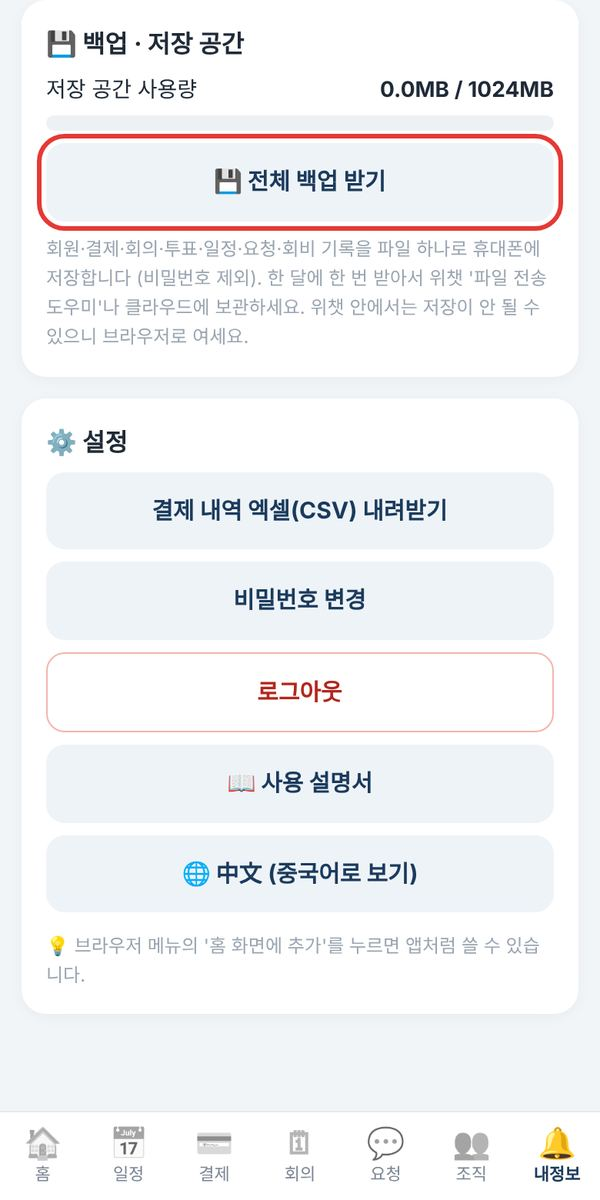
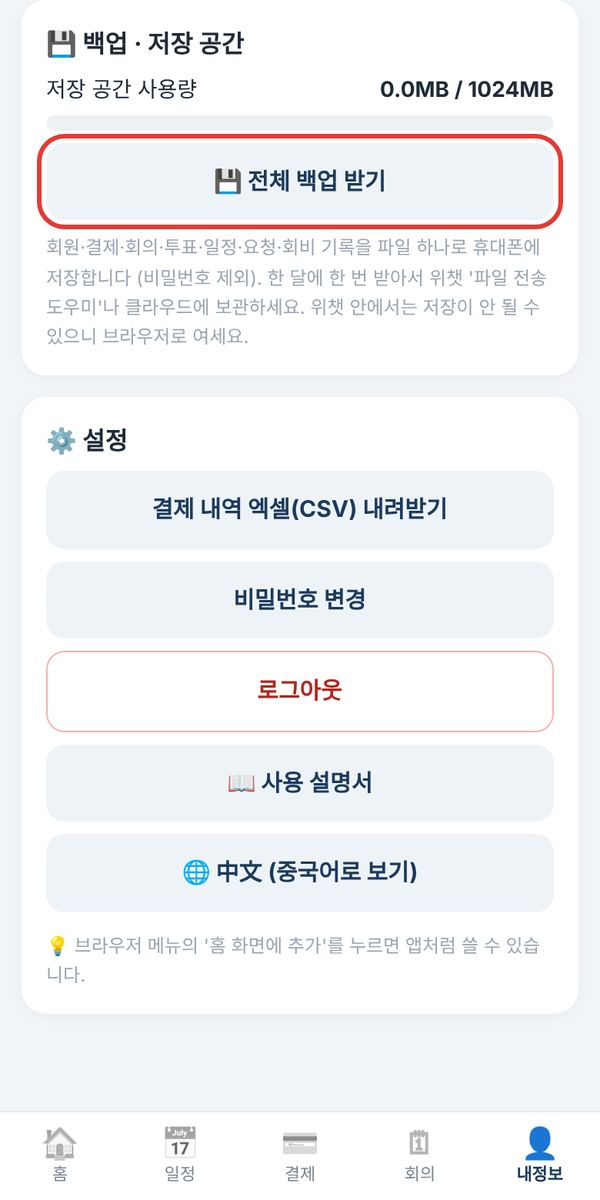
UI 정리(메뉴 5개, 홈 바로가기, 상세 헤더 단순화), 내 회비 12개월 보기
Claude-Session: https://claude.ai/code/session_015HE4XVwfqT5PtJWveADa8Y

diff --git a/index.html b/index.html
@@ -15,7 +15,13 @@
 html,body{margin:0;background:var(--bg);color:var(--ink);font:15px/1.5 -apple-system,"PingFang SC","Malgun Gothic","Apple SD Gothic Neo",sans-serif}
 a{color:inherit;text-decoration:none}
 #app{max-width:560px;margin:0 auto;padding:14px 14px 110px}
-.hero{background:linear-gradient(135deg,var(--navy),var(--green));color:#fff;border-radius:18px;padding:22px 20px;margin-bottom:14px;box-shadow:0 8px 20px rgba(27,58,92,.22)}
+.hero{background:#fff;color:var(--ink);border-radius:16px;padding:18px;margin-bottom:14px;box-shadow:0 2px 10px rgba(0,0,0,.04);border-top:4px solid var(--navy)}
+.hero .ht{color:var(--navy)}.hero .hs,.hero .hl,.hero .hr{color:var(--sub)}
+.hero.main{background:linear-gradient(135deg,var(--navy),var(--green));color:#fff;border-top:0;padding:22px 20px;box-shadow:0 8px 20px rgba(27,58,92,.22)}
+.hero.main .ht,.hero.main .hs,.hero.main .hl,.hero.main .hr{color:#fff}
+.qgrid{display:grid;grid-template-columns:repeat(3,1fr);gap:10px;margin-bottom:14px}
+.q{background:#fff;border-radius:14px;padding:12px 4px 10px;text-align:center;font-size:13px;color:var(--ink);box-shadow:0 2px 10px rgba(0,0,0,.04)}
+.q b{display:block;font-size:24px;line-height:1.25;margin-bottom:2px}
 .hs{font-size:13px;opacity:.85}.hl{font-size:12px;opacity:.8;margin-top:12px}
 .ht{font-size:30px;font-weight:800;margin:4px 0;word-break:keep-all}
 .hr{display:flex;justify-content:space-between;font-size:12px;opacity:.92;margin-top:6px}
@@ -85,15 +91,13 @@ nav a.on{color:var(--navy);font-weight:700}nav a.on b{filter:none;opacity:1}
   <a href="#/matches" data-t="match"><b>📅</b>일정</a>
   <a href="#/pays" data-t="pay"><b>💳</b>결제</a>
   <a href="#/meets" data-t="meet"><b>🗓</b>회의</a>
-  <a href="#/reqs" data-t="req"><b>💬</b>요청</a>
-  <a href="#/org" data-t="org"><b>👥</b>조직</a>
-  <a href="#/me" data-t="me"><b>🔔</b>내정보<span class="badge" id="badge" style="display:none"></span></a>
+  <a href="#/me" data-t="me"><b>👤</b>내정보<span class="badge" id="badge" style="display:none"></span></a>
 </div></nav>
 <div id="toast"></div>
 <button id="lang" data-nt style="position:fixed;top:10px;right:10px;z-index:9;border:0;border-radius:99px;padding:6px 12px;font:600 13px/1.2 inherit;background:rgba(255,255,255,.92);color:#1B3A5C;box-shadow:0 2px 8px rgba(0,0,0,.15)"></button>
 <script>
 // ───── 중국어 번역 (한국어 ↔ 中文) ─────
-const I18N = {"홈": "首页", "경기": "比赛", "결제": "付款", "회의": "会议", "요청": "建议", "조직": "组织", "내정보": "我的", "축구회": "足球会", "회비 · 결제 · 회의 · 회칙": "会费 · 付款 · 会议 · 会规", "로그인": "登录", "로그아웃": "退出登录", "가입 신청": "申请加入", "이름 (실명)": "姓名（实名）", "비밀번호 (4자 이상)": "密码（至少4位）", "비밀번호 확인": "确认密码", "예) 김민수": "例）张伟", "비밀번호를 잊었다면 회장에게 초기화를 요청하세요.": "忘记密码请联系会长重置。", "한 번 로그인하면 로그아웃 전까지 자동으로 로그인됩니다. 다른 기기에서 로그인하면 이전 기기는 로그아웃됩니다.": "登录一次后，在退出前会自动登录。在其他设备登录时，之前的设备会自动退出。", "가입 신청 후 회장이 승인하면 로그인할 수 있습니다. 첫 가입자는 자동으로 회장이 됩니다.": "申请后经会长批准即可登录。第一个注册的人自动成为会长。", "가입 신청 완료! 회장 승인 후 로그인하세요": "申请完成！会长批准后即可登录", "비밀번호가 서로 다릅니다": "两次密码不一致", "📖 사용 설명서": "📖 使用说明（韩文）", "불러오는 중…": "加载中…", "불러오지 못했습니다": "加载失败", "다시 시도": "重试", "인터넷 연결을 확인하세요": "请检查网络连接", "서버가 잠시 응답하지 않습니다. 잠시 후 다시 시도하세요": "服务器暂时无响应，请稍后再试", "요청 오류 (": "请求错误 (", "업로드 중…": "上传中…", "업로드 완료": "上传完成", "업로드 실패 (": "上传失败 (", "파일이 20MB를 넘습니다": "文件超过20MB", "복사했습니다. 위챗 단톡방에 붙여넣으세요": "已复制，请粘贴到微信群", "아래 글을 길게 눌러 복사하세요": "长按下面的文字复制", "닫기": "关闭", "위챗 단톡방 공유 문구 복사": "复制分享文字（微信群）", "처리 기록": "处理记录", "처리 완료": "处理完成", "저장했습니다": "已保存", "삭제": "删除", "열기": "打开", "보기 ›": "查看 ›", "전체 ›": "全部 ›", "전체": "全部", "내용": "内容", "제목": "标题", "상태": "状态", "번호": "编号", "회장": "会长", "부회장": "副会长", "총무": "总务", "감독": "主教练", "코치": "教练", "회원": "会员", "본인": "本人", "👥 운영진": "👥 管理团队", "회장결재": "待会长审批", "부회장결재": "待副会长审批", "부회장검토": "待副会长审核", "지급대기": "待付款", "지급완료": "已付款", "승인대기": "待审批", "승인": "批准", "반려": "驳回", "접수": "已提交", "처리중": "处理中", "완료": "已完成", "참석": "出席", "불참": "缺席", "미정": "待定", "수입": "收入", "지출": "支出", "입금": "入账", "신청": "申请", "대기": "等待", "검토 중": "审核中", "건너뜀": "跳过", "결재": "审批", "구장": "场地", "음료": "饮料", "장비": "装备", "회식": "聚餐", "유니폼": "球衣", "기타": "其他", "회비": "会费", "찬조": "赞助", "11인제": "11人制", "9인제": "9人制", "8인제": "8人制", "7인제": "7人制", "6인제": "6人制", "5인제 (풋살)": "5人制（室内）", "결제안 신청": "提交付款申请", "수입 등록": "登记收入", "안건 상신": "提交议题", "지급": "付款", "마감": "截止", "현재 잔액": "当前余额", "총 수입": "总收入", "총 지출": "总支出", "📢 공지": "📢 公告", "✅ 내가 처리할 일": "✅ 待我处理", "🗓 최근 확정 회의": "🗓 最近确定的会议", "💸 최근 지출": "💸 最近支出", "아직 확정된 회의가 없습니다": "还没有确定的会议", "아직 지출 내역이 없습니다": "还没有支出记录", "⚽ 다음 경기": "⚽ 下一场比赛", "🗳 진행 중인 투표": "🗳 进行中的投票", "투표 완료": "已投票", "투표하기 ›": "去投票 ›", "출석 체크 ›": "签到 ›", "체크 ›": "签到 ›", "+ 결제안": "+ 付款申请", "+ 수입 등록": "+ 登记收入", "내역이 없습니다": "没有记录", "💰 수입 등록": "💰 登记收入", "📝 결제안 신청": "📝 付款申请", "예) 11월 회비": "例）11月会费", "예) 11월 셋째 주 구장 대여": "例）11月第三周场地租赁", "항목": "类别", "금액 (위안)": "金额（元）", "메모": "备注", "사유": "事由", "상세 내용": "详细内容", "입금 캡처": "入账截图", "영수증·견적": "收据·报价", "사진": "照片", "결제안 올리기": "提交付款申请", "결재 순서: 회장 → 부회장 → 총무(지급). 올리면 회장에게 알림이 갑니다.": "审批顺序：会长 → 副会长 → 总务（付款）。提交后会通知会长。", "등록 완료": "登记完成", "작성": "提交", "반려 사유:": "驳回理由：", "🧾 송금 증빙": "🧾 转账凭证", "결재라인": "审批流程", "총무 지급": "总务付款", "회장 결재": "会长审批", "부회장 결재": "副会长审批", "개인 위챗으로 송금한 뒤 송금 캡처를 첨부하고 지급완료를 누르세요.": "用个人微信转账后，上传转账截图并点击“已付款”。", "송금 캡처를 첨부하세요": "请上传转账截图", "지급완료 처리할까요?": "确认已付款吗？", "승인할까요?": "确认批准吗？", "반려 사유를 입력하세요": "请输入驳回理由", "결제안은 운영진만 올릴 수 있습니다": "只有管理团队可以提交付款申请", "+ 회의 안건": "+ 会议议题", "등록된 회의가 없습니다": "没有会议", "🗓 회의 안건 올리기": "🗓 提交会议议题", "회의 제목": "会议标题", "회의 날짜": "会议日期", "예) 12월 정기 운영회의": "例）12月例行管理会议", "안건 내용": "议题内容", "첨부 파일 (사진·PDF·문서)": "附件（照片·PDF·文档）", "+ 파일 첨부": "+ 添加附件", "결재 순서: 부회장 → 회장. 회장이 승인하면 전체 회원에게 공개되고 알림이 갑니다.": "审批顺序：副会长 → 会长。会长批准后向全体会员公开并通知。", "결재 올리기": "提交审批", "결재 요청 완료": "已提交审批", "안건": "议题", "📝 회의록": "📝 会议记录", "📝회의록": "📝会议记录", "‹ 이전": "‹ 上一页", "면제 대상": "免缴对象", "⏸ 일시중단": "⏸ 暂停缴费", "일시중단": "暂停缴费", "⏸ 일시중단 · 🎫 면제 대상": "⏸ 暂停缴费 · 🎫 免缴对象", "회비 면제 대상": "会费免缴对象", "🎫 회비 면제 대상": "🎫 会费免缴对象", "이번 달만 면제": "仅本月免缴", "· 회비 설정": "· 会费设置", "매달 자동으로 면제": "每月自动免缴", "사유 (예: 총무 활동, 감독)": "理由（例：总务工作、主教练）", "면제 대상 저장": "保存免缴设置", "등록된 일시중단이 없습니다": "没有暂停记录", "시작 달": "开始月份", "끝 달": "结束月份", "사유 (예: 부상, 출장, 귀국)": "理由（例：受伤、出差、回国）", "일시중단 추가": "添加暂停", "일시중단을 등록했습니다": "已登记暂停", "이 일시중단을 삭제할까요?": "确定删除该暂停吗？", "(인원에서 제외)": "（不计入人数）", "회장·총무만 일시중단을 설정할 수 있습니다": "只有会长·总务可以设置暂停", "시작·끝 달을 입력하세요": "请输入开始和结束月份", "끝 달이 시작 달보다 빠릅니다": "结束月份早于开始月份", "연납": "年缴", "🏅 연납": "🏅 年缴", "🏅 연회비 완납": "🏅 年费已缴清", "연회비 완납": "年费已缴清", "연납(1년 일시납) 금액 (위안)": "年缴（一次性缴一年）金额（元）", "연납 기한 (선택)": "年缴截止日期（可选）", "설정 저장": "保存设置", "아직 없습니다": "暂无", "연납을 취소할까요?\n연회비 수입 기록이 함께 지워집니다.": "确定取消年缴吗？\n年费收入记录也会一起删除。", "먼저 연납 금액을 정해 주세요": "请先设置年缴金额", "💰 회비 납부 현황": "💰 会费缴纳情况", "이번 달 회비": "本月会费", "납부 완료 ✅": "已缴纳 ✅", "면제": "免缴", "미납 ›": "未缴 ›", "미납": "未缴", "납부": "缴纳", "월 회비": "月会费", "⚙ 회비 설정": "⚙ 会费设置", "월 회비 금액 (위안)": "月会费金额（元）", "저장": "保存", "👥 회원별 납부": "👥 会员缴纳", "이번 달 면제": "本月免缴", "아직 납부 안 함": "尚未缴纳", "회원이 없습니다": "没有会员", "📤 납부 현황 복사 (위챗에 공유)": "📤 复制缴纳情况（分享到微信）", "알림을 보냈습니다": "已发送提醒", "💾 백업 · 저장 공간": "💾 备份 · 存储空间", "저장 공간 사용량": "存储空间使用量", "💾 전체 백업 받기": "💾 下载全部备份", "백업 파일을 저장했습니다": "备份文件已保存", "회비 납부 안내": "会费缴纳提醒", "회장·총무만 납부 체크를 할 수 있습니다": "只有会长·总务可以登记缴纳", "먼저 월 회비 금액을 정해 주세요": "请先设置月会费金额", "회장만 백업할 수 있습니다": "只有会长可以备份", "비밀번호를 5번 틀려 10분간 잠겼습니다": "密码错误5次，已锁定10分钟", "일정": "日程", "📅 캘린더 ›": "📅 日历 ›", "다가오는 경기": "即将进行的比赛", "이 날은 경기가 없습니다": "这天没有比赛", "📤 경기 일정 공유 (위챗)": "📤 分享比赛日程（微信）", "📅 캘린더로 돌아가기": "📅 返回日历", "⚽ 경기 일정:": "⚽ 比赛日程：", "경기 일정 등록": "比赛日程已登记", "초록 점이 있는 날을 누르면 그날 경기를 볼 수 있습니다.": "点击带绿点的日期可查看当天比赛。", "누적 수입": "累计收入", "누적 지출": "累计支出", "이번 달 지출": "本月支出", "📊 월별·연간 결산 ›": "📊 月度·年度结算 ›", "📊 월별·연간 결산 보기": "📊 查看月度·年度结算", "📊 결산": "📊 结算", "연간": "全年", "기간 지출": "期间支出", "기간 수입": "期间收入", "기간 순액": "期间净额", "💰 잔액 흐름": "💰 余额变化", "전기 이월": "上期结转", "기말 잔액": "期末余额", "📂 항목별 지출": "📂 分类支出", "이 기간 지출이 없습니다": "该期间没有支出", "월을 누르면 그 달 내역을 볼 수 있습니다.": "点击月份可查看当月明细。", "이 기간 내역 엑셀(CSV) 내려받기": "下载该期间明细（CSV）", "📤 결산 요약 복사 (위챗에 공유)": "📤 复制结算摘要（分享到微信）", "지급완료된 건만, 지급한 날짜 기준으로 계산합니다. 전기 이월 = 이 기간 이전까지의 잔액.": "只统计已付款的项目，按付款日期计算。上期结转 = 该期间之前的余额。", "년 전체": "年 全年", " 결산": " 结算", "내역 (": "明细 (", "다음 ›": "下一页 ›", "이동 ›": "前往 ›", "작성·수정": "编写·修改", "아직 회의록이 없습니다": "还没有会议记录", "회의 결과를 입력하세요": "请输入会议结果", "저장하고 회원에게 알림": "保存并通知会员", "회의록 저장": "会议记录已保存", "회의 안건은 운영진만 올릴 수 있습니다": "只有管理团队可以提交会议议题", "🗳 투표": "🗳 投票", "아직 투표가 없습니다": "还没有投票", "+ 투표 만들기": "+ 发起投票", "투표 제목": "投票标题", "예) 연말 회식 날짜": "例）年末聚餐日期", "선택지 (한 줄에 하나씩)": "选项（每行一个）", "마감 시간 (선택)": "截止时间（可选）", "투표 시작하고 회원에게 알림": "开始投票并通知会员", "기명 투표입니다. 누가 무엇을 골랐는지 모든 회원에게 보입니다.": "这是记名投票，所有会员都能看到谁选了什么。", "투표를 시작했습니다": "投票已开始", "🗳 기명 투표": "🗳 记名投票", "마감됨": "已截止", "진행 중": "进行中", "결과": "结果", "하나를 골라 누르세요": "请选择一项", "내 선택 (다시 눌러 바꿀 수 있음)": "我的选择（可重新点击更改）", "모두 투표했습니다 🎉": "全部已投票 🎉", "🙋 아직 투표 안 한 사람 (": "🙋 未投票 (", "투표 마감하기": "截止投票", "회의로 돌아가기": "返回会议", "📤 투표 링크 복사 (위챗에 공유)": "📤 复制投票链接（分享到微信）", "투표했습니다": "已投票", "투표를 마감할까요? 마감 후에는 바꿀 수 없습니다.": "确定截止投票吗？截止后不能更改。", "마감했습니다": "已截止", "없는 투표입니다": "投票不存在", "🗳 투표해 주세요:": "🗳 请投票：", "명 참여": "人参与", "예정된 경기가 없습니다": "没有即将进行的比赛", "지난 경기": "往期比赛", "+ 경기 등록": "+ 登记比赛", "⚽ 경기 등록": "⚽ 登记比赛", "✏ 경기 수정": "✏ 修改比赛", "경기 이름": "比赛名称", "예) 정기 경기, 친선전": "例）例行比赛、友谊赛", "상대팀 (선택)": "对手（可选）", "예) ○○FC": "例）○○FC", "날짜·시작 시간": "日期·开始时间", "경기 방식": "比赛形式", "필요 인원 (명)": "所需人数", "구장 이름": "场地名称", "예) ○○체육공원 축구장": "例）○○体育公园足球场", "주소 (선택)": "地址（可选）", "예) ○○구 ○○로 123": "例）○○区○○路123号", "고덕지도 공유 링크 (선택)": "高德地图分享链接（可选）", "고덕지도 앱 → 장소 → 공유 → 링크 복사": "高德地图 → 地点 → 分享 → 复制链接", "링크를 비워 두면 구장 이름·주소로 고덕지도에서 자동 검색됩니다.": "不填链接时，会用场地名称和地址在高德地图自动搜索。", "출석 체크 마감 (선택, 비우면 경기 시작 때 마감)": "签到截止（可选，不填则比赛开始时截止）", "메모 (선택)": "备注（可选）", "예) 흰색·검은색 상의 준비, 8시 30분까지 도착": "例）准备白色·黑色上衣，8点30分前到达", "수정 저장": "保存修改", "등록하고 회원에게 알림": "登记并通知会员", "날짜·시간을 입력하세요": "请输入日期和时间", "수정했습니다": "已修改", "경기를 등록했습니다": "比赛已登记", "운영진만 경기를 등록할 수 있습니다": "只有管理团队可以登记比赛", "📍 구장": "📍 场地", "구장 미정": "场地待定", "🗺 고덕지도에서 위치 보기": "🗺 在高德地图查看位置", "✋ 출석 체크": "✋ 签到", "아직 응답 안 함": "尚未回复", "내 응답:": "我的回复：", "출석 체크가 마감되었습니다": "签到已截止", "출석 마감": "签到已截止", "경기 시작 때 마감": "比赛开始时截止", "✅ 참석": "✅ 出席", "❌ 불참": "❌ 缺席", "🤔 미정": "🤔 待定", "🙋 미응답": "🙋 未回复", "인원 충족 ✅": "人数已满 ✅", "명 부족": "人不足", "✏ 수정": "✏ 修改", "📤 출석 체크 링크 복사 (위챗에 공유)": "📤 复制签到链接（分享到微信）", "(으)로 체크했습니다": " 已签到", "이 경기를 삭제할까요? 출석 기록도 함께 지워집니다.": "确定删除这场比赛吗？签到记录也会一起删除。", "삭제했습니다": "已删除", "없는 경기입니다": "比赛不存在", "⚽ 출석 체크해 주세요:": "⚽ 请签到：", "정기 경기": "例行比赛", "/ 필요": "/ 需要", "· 필요": "· 需要", "현재 참석": "当前出席", "💬 요청사항": "💬 建议·请求", "운영진에게 건의·요청할 내용을 남겨 주세요. 운영진이 답변하면 알림이 갑니다.": "请给管理团队留下建议或请求。管理团队回复后会通知您。", "+ 요청하기": "+ 提交建议", "예) 토요일 경기 시간 변경 요청": "例）申请更改周六比赛时间", "자세한 내용": "详细内容", "보내기": "发送", "요청을 보냈습니다": "已发送", "아직 요청사항이 없습니다": "还没有建议", "답변 (운영진만 보이는 입력칸)": "回复（仅管理团队可见的输入框）", "답변 저장": "保存回复", "답변 ·": "回复 ·", "📜 회칙": "📜 会规", "아직 등록된 회칙이 없습니다": "还没有上传会规", "새 회칙으로 교체": "更换新会规", "회칙 파일 업로드": "上传会规文件", "회칙 등록 완료": "会规已上传", "운영진 정보가 없습니다": "没有管理团队信息", "⚽ 회원": "⚽ 会员", "🔔 알림": "🔔 通知", "알림이 없습니다": "没有通知", "📢 홈 공지": "📢 首页公告", "예) 이번 주 토요일 오전 9시 ○○구장": "例）本周六上午9点 ○○场地", "공지 저장": "保存公告", "🛠 회원 관리": "🛠 会员管理", "가입 승인 대기": "等待批准", "거절": "拒绝", "🤝 회장 인계": "🤝 会长交接", "새 회장을 선택하면 권한이 넘어가고 나는 일반 회원이 됩니다.": "选择新会长后，权限会转交，我将成为普通会员。", "새 회장 선택": "选择新会长", "회장 인계하기": "交接会长", "새 회장을 선택하세요": "请选择新会长", "인계 완료": "交接完成", "사이트 관리 계정도 넘겨주세요 (고장 대비)": "也请交接网站管理账号（以防故障）", "관리 메모 (회장에게만 보이고 인계 시 함께 넘어감)": "管理备注（仅会长可见，交接时一起转交）", "예) GitHub 조직 이름, Supabase 프로젝트 이름, 비상 연락처": "例）GitHub组织名、Supabase项目名、紧急联系方式", "메모 저장": "保存备注", "⚙ 설정": "⚙ 设置", "결제 내역 엑셀(CSV) 내려받기": "下载付款记录（CSV）", "비밀번호 변경": "修改密码", "로그아웃할까요?": "确定退出登录吗？", "💡 브라우저 메뉴의": "💡 在浏览器菜单中点击", "홈 화면에 추가": "添加到主屏幕", "를 누르면 앱처럼 쓸 수 있습니다.": "，就能像App一样使用。", "현재 비밀번호": "当前密码", "새 비밀번호 (4자 이상)": "新密码（至少4位）", "비밀번호 변경 완료": "密码已修改", "변경 완료": "修改完成", "삭제 완료": "删除完成", "위챗 안에서는 저장이 안 될 수 있어요. 브라우저에서 열어 주세요": "在微信内可能无法保存，请用浏览器打开", "님을 삭제할까요?": " 确定删除吗？", "님에게 회장을 인계할까요?\n나는 일반 회원이 됩니다.": " — 确定交接会长吗？\n我将成为普通会员。", "님\n1: 직책 이름 변경 (예: 감독, 경기이사)\n2: 비밀번호 초기화\n3: 회원 삭제\n번호를 입력하세요": "\n1：修改职务名称\n2：重置密码\n3：删除会员\n请输入编号", "직책 이름 (비우면 삭제)": "职务名称（留空则删除）", "새 임시 비밀번호 (4자 이상)": "新临时密码（至少4位）", "님의 비밀번호가": " 的密码已改为", "(으)로 바뀌었습니다. 본인에게 알려 주세요.": "，请告知本人。", "가입 승인": "批准加入", "님이 가입을 신청했습니다": " 申请加入", "결제안 승인 요청": "付款申请待审批", "결제안 최종 승인": "付款申请已最终批准", "결제안 반려": "付款申请被驳回", "송금 요청": "请转账", "지급 완료": "已付款", "회의 안건 결재 요청": "会议议题待审批", "회의 안건 확정": "会议议题已确定", "회의 안건 반려": "会议议题被驳回", "회의록 등록": "会议记录已发布", "회칙 갱신": "会规已更新", "역할 변경": "角色变更", "(으)로 지정되었습니다": " 已被指定", "축구회 가입이 승인되었습니다": "已批准加入足球会", "회원 요청사항": "会员建议", "요청사항 답변 (": "建议已回复 (", "투표 시작": "投票开始", "투표 마감": "投票截止", "경기 일정 등록 · 출석 체크": "比赛已登记 · 请签到", "경기 정보 변경": "比赛信息变更", "새 기기에서 로그인됨": "在新设备登录", "이전 기기는 자동 로그아웃되었습니다. 본인이 아니라면 바로 비밀번호를 바꾸세요": "之前的设备已自动退出。如果不是本人操作，请立即修改密码", "다른 기기에서 로그인했거나 로그인이 해제되었습니다. 다시 로그인해 주세요": "已在其他设备登录或登录已失效，请重新登录", "이름 또는 비밀번호가 틀립니다": "姓名或密码错误", "회장 승인 대기 중입니다": "等待会长批准", "이름과 비밀번호(4자 이상)를 입력하세요": "请输入姓名和密码（至少4位）", "이미 등록된 이름입니다": "该姓名已注册", "제목과 금액을 입력하세요": "请输入标题和金额", "제목을 입력하세요": "请输入标题", "없는 항목입니다": "项目不存在", "수입은 회장·총무만 등록할 수 있습니다": "只有会长·总务可以登记收入", "지금은 결재할 수 있는 단계가 아닙니다": "当前不是您的审批步骤", "총무만 승인된 건을 지급완료할 수 있습니다": "只有总务可以将已批准的申请标为已付款", "아직 확정되지 않은 회의입니다": "会议尚未确定", "부회장 결재 단계입니다": "现在是副会长审批步骤", "회장 결재 단계입니다": "现在是会长审批步骤", "결재할 수 없는 상태입니다": "当前状态无法审批", "운영진만 회의록을 등록할 수 있습니다": "只有管理团队可以发布会议记录", "확정된 회의에만 회의록을 등록할 수 있습니다": "只能为已确定的会议发布记录", "회장·총무만 회칙을 등록할 수 있습니다": "只有会长·总务可以上传会规", "회장·총무만 공지를 수정할 수 있습니다": "只有会长·总务可以修改公告", "회장만 수정할 수 있습니다": "只有会长可以修改", "회장만 회원을 관리할 수 있습니다": "只有会长可以管理会员", "본인 역할은 회장 인계로만 바꿀 수 있습니다": "本人角色只能通过会长交接更改", "잘못된 역할": "角色错误", "비밀번호는 4자 이상": "密码至少4位", "회장만 삭제할 수 있습니다": "只有会长可以删除", "본인은 삭제할 수 없습니다": "不能删除本人", "현재 비밀번호가 틀립니다": "当前密码错误", "새 비밀번호는 4자 이상": "新密码至少4位", "알 수 없는 요청": "未知请求", "알 수 없는 처리": "未知操作", "운영진만 투표를 만들 수 있습니다": "只有管理团队可以发起投票", "확정된 회의에서만 투표를 만들 수 있습니다": "只能在已确定的会议中发起投票", "투표 제목과 선택지(2개 이상)를 입력하세요": "请输入投票标题和选项（至少2个）", "마감된 투표입니다": "投票已截止", "잘못된 선택": "选择错误", "운영진만 마감할 수 있습니다": "只有管理团队可以截止", "경기 이름과 날짜·시간을 입력하세요": "请输入比赛名称和日期时间", "운영진만 삭제할 수 있습니다": "只有管理团队可以删除", "운영진만 답변할 수 있습니다": "只有管理团队可以回复"};
+const I18N = {"홈": "首页", "경기": "比赛", "결제": "付款", "회의": "会议", "요청": "建议", "조직": "组织", "내정보": "我的", "축구회": "足球会", "회비 · 결제 · 회의 · 회칙": "会费 · 付款 · 会议 · 会规", "로그인": "登录", "로그아웃": "退出登录", "가입 신청": "申请加入", "이름 (실명)": "姓名（实名）", "비밀번호 (4자 이상)": "密码（至少4位）", "비밀번호 확인": "确认密码", "예) 김민수": "例）张伟", "비밀번호를 잊었다면 회장에게 초기화를 요청하세요.": "忘记密码请联系会长重置。", "한 번 로그인하면 로그아웃 전까지 자동으로 로그인됩니다. 다른 기기에서 로그인하면 이전 기기는 로그아웃됩니다.": "登录一次后，在退出前会自动登录。在其他设备登录时，之前的设备会自动退出。", "가입 신청 후 회장이 승인하면 로그인할 수 있습니다. 첫 가입자는 자동으로 회장이 됩니다.": "申请后经会长批准即可登录。第一个注册的人自动成为会长。", "가입 신청 완료! 회장 승인 후 로그인하세요": "申请完成！会长批准后即可登录", "비밀번호가 서로 다릅니다": "两次密码不一致", "📖 사용 설명서": "📖 使用说明（韩文）", "불러오는 중…": "加载中…", "불러오지 못했습니다": "加载失败", "다시 시도": "重试", "인터넷 연결을 확인하세요": "请检查网络连接", "서버가 잠시 응답하지 않습니다. 잠시 후 다시 시도하세요": "服务器暂时无响应，请稍后再试", "요청 오류 (": "请求错误 (", "업로드 중…": "上传中…", "업로드 완료": "上传完成", "업로드 실패 (": "上传失败 (", "파일이 20MB를 넘습니다": "文件超过20MB", "복사했습니다. 위챗 단톡방에 붙여넣으세요": "已复制，请粘贴到微信群", "아래 글을 길게 눌러 복사하세요": "长按下面的文字复制", "닫기": "关闭", "위챗 단톡방 공유 문구 복사": "复制分享文字（微信群）", "처리 기록": "处理记录", "처리 완료": "处理完成", "저장했습니다": "已保存", "삭제": "删除", "열기": "打开", "보기 ›": "查看 ›", "전체 ›": "全部 ›", "전체": "全部", "내용": "内容", "제목": "标题", "상태": "状态", "번호": "编号", "회장": "会长", "부회장": "副会长", "총무": "总务", "감독": "主教练", "코치": "教练", "회원": "会员", "본인": "本人", "👥 운영진": "👥 管理团队", "회장결재": "待会长审批", "부회장결재": "待副会长审批", "부회장검토": "待副会长审核", "지급대기": "待付款", "지급완료": "已付款", "승인대기": "待审批", "승인": "批准", "반려": "驳回", "접수": "已提交", "처리중": "处理中", "완료": "已完成", "참석": "出席", "불참": "缺席", "미정": "待定", "수입": "收入", "지출": "支出", "입금": "入账", "신청": "申请", "대기": "等待", "검토 중": "审核中", "건너뜀": "跳过", "결재": "审批", "구장": "场地", "음료": "饮料", "장비": "装备", "회식": "聚餐", "유니폼": "球衣", "기타": "其他", "회비": "会费", "찬조": "赞助", "11인제": "11人制", "9인제": "9人制", "8인제": "8人制", "7인제": "7人制", "6인제": "6人制", "5인제 (풋살)": "5人制（室内）", "결제안 신청": "提交付款申请", "수입 등록": "登记收入", "안건 상신": "提交议题", "지급": "付款", "마감": "截止", "현재 잔액": "当前余额", "총 수입": "总收入", "총 지출": "总支出", "📢 공지": "📢 公告", "✅ 내가 처리할 일": "✅ 待我处理", "🗓 최근 확정 회의": "🗓 最近确定的会议", "💸 최근 지출": "💸 最近支出", "아직 확정된 회의가 없습니다": "还没有确定的会议", "아직 지출 내역이 없습니다": "还没有支出记录", "⚽ 다음 경기": "⚽ 下一场比赛", "🗳 진행 중인 투표": "🗳 进行中的投票", "투표 완료": "已投票", "투표하기 ›": "去投票 ›", "출석 체크 ›": "签到 ›", "체크 ›": "签到 ›", "+ 결제안": "+ 付款申请", "+ 수입 등록": "+ 登记收入", "내역이 없습니다": "没有记录", "💰 수입 등록": "💰 登记收入", "📝 결제안 신청": "📝 付款申请", "예) 11월 회비": "例）11月会费", "예) 11월 셋째 주 구장 대여": "例）11月第三周场地租赁", "항목": "类别", "금액 (위안)": "金额（元）", "메모": "备注", "사유": "事由", "상세 내용": "详细内容", "입금 캡처": "入账截图", "영수증·견적": "收据·报价", "사진": "照片", "결제안 올리기": "提交付款申请", "결재 순서: 회장 → 부회장 → 총무(지급). 올리면 회장에게 알림이 갑니다.": "审批顺序：会长 → 副会长 → 总务（付款）。提交后会通知会长。", "등록 완료": "登记完成", "작성": "提交", "반려 사유:": "驳回理由：", "🧾 송금 증빙": "🧾 转账凭证", "결재라인": "审批流程", "총무 지급": "总务付款", "회장 결재": "会长审批", "부회장 결재": "副会长审批", "개인 위챗으로 송금한 뒤 송금 캡처를 첨부하고 지급완료를 누르세요.": "用个人微信转账后，上传转账截图并点击“已付款”。", "송금 캡처를 첨부하세요": "请上传转账截图", "지급완료 처리할까요?": "确认已付款吗？", "승인할까요?": "确认批准吗？", "반려 사유를 입력하세요": "请输入驳回理由", "결제안은 운영진만 올릴 수 있습니다": "只有管理团队可以提交付款申请", "+ 회의 안건": "+ 会议议题", "등록된 회의가 없습니다": "没有会议", "🗓 회의 안건 올리기": "🗓 提交会议议题", "회의 제목": "会议标题", "회의 날짜": "会议日期", "예) 12월 정기 운영회의": "例）12月例行管理会议", "안건 내용": "议题内容", "첨부 파일 (사진·PDF·문서)": "附件（照片·PDF·文档）", "+ 파일 첨부": "+ 添加附件", "결재 순서: 부회장 → 회장. 회장이 승인하면 전체 회원에게 공개되고 알림이 갑니다.": "审批顺序：副会长 → 会长。会长批准后向全体会员公开并通知。", "결재 올리기": "提交审批", "결재 요청 완료": "已提交审批", "안건": "议题", "📝 회의록": "📝 会议记录", "📝회의록": "📝会议记录", "‹ 이전": "‹ 上一页", "요청사항": "建议·请求", "조직·회칙": "组织·会规", "알림": "通知", "설명서": "说明", "회비": "会费", "결산": "结算", "이번 달 내 회비": "本月我的会费", "올해 낸 회비": "今年已缴会费", "미납 없음 ✅": "没有未缴 ✅", "개월": "个月", "· 전체 회원": "· 全体会员", "회비 납부 현황 전체 보기 ›": "查看全部缴纳情况 ›", "면제 대상": "免缴对象", "⏸ 일시중단": "⏸ 暂停缴费", "일시중단": "暂停缴费", "⏸ 일시중단 · 🎫 면제 대상": "⏸ 暂停缴费 · 🎫 免缴对象", "회비 면제 대상": "会费免缴对象", "🎫 회비 면제 대상": "🎫 会费免缴对象", "이번 달만 면제": "仅本月免缴", "· 회비 설정": "· 会费设置", "매달 자동으로 면제": "每月自动免缴", "사유 (예: 총무 활동, 감독)": "理由（例：总务工作、主教练）", "면제 대상 저장": "保存免缴设置", "등록된 일시중단이 없습니다": "没有暂停记录", "시작 달": "开始月份", "끝 달": "结束月份", "사유 (예: 부상, 출장, 귀국)": "理由（例：受伤、出差、回国）", "일시중단 추가": "添加暂停", "일시중단을 등록했습니다": "已登记暂停", "이 일시중단을 삭제할까요?": "确定删除该暂停吗？", "(인원에서 제외)": "（不计入人数）", "회장·총무만 일시중단을 설정할 수 있습니다": "只有会长·总务可以设置暂停", "시작·끝 달을 입력하세요": "请输入开始和结束月份", "끝 달이 시작 달보다 빠릅니다": "结束月份早于开始月份", "연납": "年缴", "🏅 연납": "🏅 年缴", "🏅 연회비 완납": "🏅 年费已缴清", "연회비 완납": "年费已缴清", "연납(1년 일시납) 금액 (위안)": "年缴（一次性缴一年）金额（元）", "연납 기한 (선택)": "年缴截止日期（可选）", "설정 저장": "保存设置", "아직 없습니다": "暂无", "연납을 취소할까요?\n연회비 수입 기록이 함께 지워집니다.": "确定取消年缴吗？\n年费收入记录也会一起删除。", "먼저 연납 금액을 정해 주세요": "请先设置年缴金额", "💰 회비 납부 현황": "💰 会费缴纳情况", "이번 달 회비": "本月会费", "납부 완료 ✅": "已缴纳 ✅", "면제": "免缴", "미납 ›": "未缴 ›", "미납": "未缴", "납부": "缴纳", "월 회비": "月会费", "⚙ 회비 설정": "⚙ 会费设置", "월 회비 금액 (위안)": "月会费金额（元）", "저장": "保存", "👥 회원별 납부": "👥 会员缴纳", "이번 달 면제": "本月免缴", "아직 납부 안 함": "尚未缴纳", "회원이 없습니다": "没有会员", "📤 납부 현황 복사 (위챗에 공유)": "📤 复制缴纳情况（分享到微信）", "알림을 보냈습니다": "已发送提醒", "💾 백업 · 저장 공간": "💾 备份 · 存储空间", "저장 공간 사용량": "存储空间使用量", "💾 전체 백업 받기": "💾 下载全部备份", "백업 파일을 저장했습니다": "备份文件已保存", "회비 납부 안내": "会费缴纳提醒", "회장·총무만 납부 체크를 할 수 있습니다": "只有会长·总务可以登记缴纳", "먼저 월 회비 금액을 정해 주세요": "请先设置月会费金额", "회장만 백업할 수 있습니다": "只有会长可以备份", "비밀번호를 5번 틀려 10분간 잠겼습니다": "密码错误5次，已锁定10分钟", "일정": "日程", "📅 캘린더 ›": "📅 日历 ›", "다가오는 경기": "即将进行的比赛", "이 날은 경기가 없습니다": "这天没有比赛", "📤 경기 일정 공유 (위챗)": "📤 分享比赛日程（微信）", "📅 캘린더로 돌아가기": "📅 返回日历", "⚽ 경기 일정:": "⚽ 比赛日程：", "경기 일정 등록": "比赛日程已登记", "초록 점이 있는 날을 누르면 그날 경기를 볼 수 있습니다.": "点击带绿点的日期可查看当天比赛。", "누적 수입": "累计收入", "누적 지출": "累计支出", "이번 달 지출": "本月支出", "📊 월별·연간 결산 ›": "📊 月度·年度结算 ›", "📊 월별·연간 결산 보기": "📊 查看月度·年度结算", "📊 결산": "📊 结算", "연간": "全年", "기간 지출": "期间支出", "기간 수입": "期间收入", "기간 순액": "期间净额", "💰 잔액 흐름": "💰 余额变化", "전기 이월": "上期结转", "기말 잔액": "期末余额", "📂 항목별 지출": "📂 分类支出", "이 기간 지출이 없습니다": "该期间没有支出", "월을 누르면 그 달 내역을 볼 수 있습니다.": "点击月份可查看当月明细。", "이 기간 내역 엑셀(CSV) 내려받기": "下载该期间明细（CSV）", "📤 결산 요약 복사 (위챗에 공유)": "📤 复制结算摘要（分享到微信）", "지급완료된 건만, 지급한 날짜 기준으로 계산합니다. 전기 이월 = 이 기간 이전까지의 잔액.": "只统计已付款的项目，按付款日期计算。上期结转 = 该期间之前的余额。", "년 전체": "年 全年", " 결산": " 结算", "내역 (": "明细 (", "다음 ›": "下一页 ›", "이동 ›": "前往 ›", "작성·수정": "编写·修改", "아직 회의록이 없습니다": "还没有会议记录", "회의 결과를 입력하세요": "请输入会议结果", "저장하고 회원에게 알림": "保存并通知会员", "회의록 저장": "会议记录已保存", "회의 안건은 운영진만 올릴 수 있습니다": "只有管理团队可以提交会议议题", "🗳 투표": "🗳 投票", "아직 투표가 없습니다": "还没有投票", "+ 투표 만들기": "+ 发起投票", "투표 제목": "投票标题", "예) 연말 회식 날짜": "例）年末聚餐日期", "선택지 (한 줄에 하나씩)": "选项（每行一个）", "마감 시간 (선택)": "截止时间（可选）", "투표 시작하고 회원에게 알림": "开始投票并通知会员", "기명 투표입니다. 누가 무엇을 골랐는지 모든 회원에게 보입니다.": "这是记名投票，所有会员都能看到谁选了什么。", "투표를 시작했습니다": "投票已开始", "🗳 기명 투표": "🗳 记名投票", "마감됨": "已截止", "진행 중": "进行中", "결과": "结果", "하나를 골라 누르세요": "请选择一项", "내 선택 (다시 눌러 바꿀 수 있음)": "我的选择（可重新点击更改）", "모두 투표했습니다 🎉": "全部已投票 🎉", "🙋 아직 투표 안 한 사람 (": "🙋 未投票 (", "투표 마감하기": "截止投票", "회의로 돌아가기": "返回会议", "📤 투표 링크 복사 (위챗에 공유)": "📤 复制投票链接（分享到微信）", "투표했습니다": "已投票", "투표를 마감할까요? 마감 후에는 바꿀 수 없습니다.": "确定截止投票吗？截止后不能更改。", "마감했습니다": "已截止", "없는 투표입니다": "投票不存在", "🗳 투표해 주세요:": "🗳 请投票：", "명 참여": "人参与", "예정된 경기가 없습니다": "没有即将进行的比赛", "지난 경기": "往期比赛", "+ 경기 등록": "+ 登记比赛", "⚽ 경기 등록": "⚽ 登记比赛", "✏ 경기 수정": "✏ 修改比赛", "경기 이름": "比赛名称", "예) 정기 경기, 친선전": "例）例行比赛、友谊赛", "상대팀 (선택)": "对手（可选）", "예) ○○FC": "例）○○FC", "날짜·시작 시간": "日期·开始时间", "경기 방식": "比赛形式", "필요 인원 (명)": "所需人数", "구장 이름": "场地名称", "예) ○○체육공원 축구장": "例）○○体育公园足球场", "주소 (선택)": "地址（可选）", "예) ○○구 ○○로 123": "例）○○区○○路123号", "고덕지도 공유 링크 (선택)": "高德地图分享链接（可选）", "고덕지도 앱 → 장소 → 공유 → 링크 복사": "高德地图 → 地点 → 分享 → 复制链接", "링크를 비워 두면 구장 이름·주소로 고덕지도에서 자동 검색됩니다.": "不填链接时，会用场地名称和地址在高德地图自动搜索。", "출석 체크 마감 (선택, 비우면 경기 시작 때 마감)": "签到截止（可选，不填则比赛开始时截止）", "메모 (선택)": "备注（可选）", "예) 흰색·검은색 상의 준비, 8시 30분까지 도착": "例）准备白色·黑色上衣，8点30分前到达", "수정 저장": "保存修改", "등록하고 회원에게 알림": "登记并通知会员", "날짜·시간을 입력하세요": "请输入日期和时间", "수정했습니다": "已修改", "경기를 등록했습니다": "比赛已登记", "운영진만 경기를 등록할 수 있습니다": "只有管理团队可以登记比赛", "📍 구장": "📍 场地", "구장 미정": "场地待定", "🗺 고덕지도에서 위치 보기": "🗺 在高德地图查看位置", "✋ 출석 체크": "✋ 签到", "아직 응답 안 함": "尚未回复", "내 응답:": "我的回复：", "출석 체크가 마감되었습니다": "签到已截止", "출석 마감": "签到已截止", "경기 시작 때 마감": "比赛开始时截止", "✅ 참석": "✅ 出席", "❌ 불참": "❌ 缺席", "🤔 미정": "🤔 待定", "🙋 미응답": "🙋 未回复", "인원 충족 ✅": "人数已满 ✅", "명 부족": "人不足", "✏ 수정": "✏ 修改", "📤 출석 체크 링크 복사 (위챗에 공유)": "📤 复制签到链接（分享到微信）", "(으)로 체크했습니다": " 已签到", "이 경기를 삭제할까요? 출석 기록도 함께 지워집니다.": "确定删除这场比赛吗？签到记录也会一起删除。", "삭제했습니다": "已删除", "없는 경기입니다": "比赛不存在", "⚽ 출석 체크해 주세요:": "⚽ 请签到：", "정기 경기": "例行比赛", "/ 필요": "/ 需要", "· 필요": "· 需要", "현재 참석": "当前出席", "💬 요청사항": "💬 建议·请求", "운영진에게 건의·요청할 내용을 남겨 주세요. 운영진이 답변하면 알림이 갑니다.": "请给管理团队留下建议或请求。管理团队回复后会通知您。", "+ 요청하기": "+ 提交建议", "예) 토요일 경기 시간 변경 요청": "例）申请更改周六比赛时间", "자세한 내용": "详细内容", "보내기": "发送", "요청을 보냈습니다": "已发送", "아직 요청사항이 없습니다": "还没有建议", "답변 (운영진만 보이는 입력칸)": "回复（仅管理团队可见的输入框）", "답변 저장": "保存回复", "답변 ·": "回复 ·", "📜 회칙": "📜 会规", "아직 등록된 회칙이 없습니다": "还没有上传会规", "새 회칙으로 교체": "更换新会规", "회칙 파일 업로드": "上传会规文件", "회칙 등록 완료": "会规已上传", "운영진 정보가 없습니다": "没有管理团队信息", "⚽ 회원": "⚽ 会员", "🔔 알림": "🔔 通知", "알림이 없습니다": "没有通知", "📢 홈 공지": "📢 首页公告", "예) 이번 주 토요일 오전 9시 ○○구장": "例）本周六上午9点 ○○场地", "공지 저장": "保存公告", "🛠 회원 관리": "🛠 会员管理", "가입 승인 대기": "等待批准", "거절": "拒绝", "🤝 회장 인계": "🤝 会长交接", "새 회장을 선택하면 권한이 넘어가고 나는 일반 회원이 됩니다.": "选择新会长后，权限会转交，我将成为普通会员。", "새 회장 선택": "选择新会长", "회장 인계하기": "交接会长", "새 회장을 선택하세요": "请选择新会长", "인계 완료": "交接完成", "사이트 관리 계정도 넘겨주세요 (고장 대비)": "也请交接网站管理账号（以防故障）", "관리 메모 (회장에게만 보이고 인계 시 함께 넘어감)": "管理备注（仅会长可见，交接时一起转交）", "예) GitHub 조직 이름, Supabase 프로젝트 이름, 비상 연락처": "例）GitHub组织名、Supabase项目名、紧急联系方式", "메모 저장": "保存备注", "⚙ 설정": "⚙ 设置", "결제 내역 엑셀(CSV) 내려받기": "下载付款记录（CSV）", "비밀번호 변경": "修改密码", "로그아웃할까요?": "确定退出登录吗？", "💡 브라우저 메뉴의": "💡 在浏览器菜单中点击", "홈 화면에 추가": "添加到主屏幕", "를 누르면 앱처럼 쓸 수 있습니다.": "，就能像App一样使用。", "현재 비밀번호": "当前密码", "새 비밀번호 (4자 이상)": "新密码（至少4位）", "비밀번호 변경 완료": "密码已修改", "변경 완료": "修改完成", "삭제 완료": "删除完成", "위챗 안에서는 저장이 안 될 수 있어요. 브라우저에서 열어 주세요": "在微信内可能无法保存，请用浏览器打开", "님을 삭제할까요?": " 确定删除吗？", "님에게 회장을 인계할까요?\n나는 일반 회원이 됩니다.": " — 确定交接会长吗？\n我将成为普通会员。", "님\n1: 직책 이름 변경 (예: 감독, 경기이사)\n2: 비밀번호 초기화\n3: 회원 삭제\n번호를 입력하세요": "\n1：修改职务名称\n2：重置密码\n3：删除会员\n请输入编号", "직책 이름 (비우면 삭제)": "职务名称（留空则删除）", "새 임시 비밀번호 (4자 이상)": "新临时密码（至少4位）", "님의 비밀번호가": " 的密码已改为", "(으)로 바뀌었습니다. 본인에게 알려 주세요.": "，请告知本人。", "가입 승인": "批准加入", "님이 가입을 신청했습니다": " 申请加入", "결제안 승인 요청": "付款申请待审批", "결제안 최종 승인": "付款申请已最终批准", "결제안 반려": "付款申请被驳回", "송금 요청": "请转账", "지급 완료": "已付款", "회의 안건 결재 요청": "会议议题待审批", "회의 안건 확정": "会议议题已确定", "회의 안건 반려": "会议议题被驳回", "회의록 등록": "会议记录已发布", "회칙 갱신": "会规已更新", "역할 변경": "角色变更", "(으)로 지정되었습니다": " 已被指定", "축구회 가입이 승인되었습니다": "已批准加入足球会", "회원 요청사항": "会员建议", "요청사항 답변 (": "建议已回复 (", "투표 시작": "投票开始", "투표 마감": "投票截止", "경기 일정 등록 · 출석 체크": "比赛已登记 · 请签到", "경기 정보 변경": "比赛信息变更", "새 기기에서 로그인됨": "在新设备登录", "이전 기기는 자동 로그아웃되었습니다. 본인이 아니라면 바로 비밀번호를 바꾸세요": "之前的设备已自动退出。如果不是本人操作，请立即修改密码", "다른 기기에서 로그인했거나 로그인이 해제되었습니다. 다시 로그인해 주세요": "已在其他设备登录或登录已失效，请重新登录", "이름 또는 비밀번호가 틀립니다": "姓名或密码错误", "회장 승인 대기 중입니다": "等待会长批准", "이름과 비밀번호(4자 이상)를 입력하세요": "请输入姓名和密码（至少4位）", "이미 등록된 이름입니다": "该姓名已注册", "제목과 금액을 입력하세요": "请输入标题和金额", "제목을 입력하세요": "请输入标题", "없는 항목입니다": "项目不存在", "수입은 회장·총무만 등록할 수 있습니다": "只有会长·总务可以登记收入", "지금은 결재할 수 있는 단계가 아닙니다": "当前不是您的审批步骤", "총무만 승인된 건을 지급완료할 수 있습니다": "只有总务可以将已批准的申请标为已付款", "아직 확정되지 않은 회의입니다": "会议尚未确定", "부회장 결재 단계입니다": "现在是副会长审批步骤", "회장 결재 단계입니다": "现在是会长审批步骤", "결재할 수 없는 상태입니다": "当前状态无法审批", "운영진만 회의록을 등록할 수 있습니다": "只有管理团队可以发布会议记录", "확정된 회의에만 회의록을 등록할 수 있습니다": "只能为已确定的会议发布记录", "회장·총무만 회칙을 등록할 수 있습니다": "只有会长·总务可以上传会规", "회장·총무만 공지를 수정할 수 있습니다": "只有会长·总务可以修改公告", "회장만 수정할 수 있습니다": "只有会长可以修改", "회장만 회원을 관리할 수 있습니다": "只有会长可以管理会员", "본인 역할은 회장 인계로만 바꿀 수 있습니다": "本人角色只能通过会长交接更改", "잘못된 역할": "角色错误", "비밀번호는 4자 이상": "密码至少4位", "회장만 삭제할 수 있습니다": "只有会长可以删除", "본인은 삭제할 수 없습니다": "不能删除本人", "현재 비밀번호가 틀립니다": "当前密码错误", "새 비밀번호는 4자 이상": "新密码至少4位", "알 수 없는 요청": "未知请求", "알 수 없는 처리": "未知操作", "운영진만 투표를 만들 수 있습니다": "只有管理团队可以发起投票", "확정된 회의에서만 투표를 만들 수 있습니다": "只能在已确定的会议中发起投票", "투표 제목과 선택지(2개 이상)를 입력하세요": "请输入投票标题和选项（至少2个）", "마감된 투표입니다": "投票已截止", "잘못된 선택": "选择错误", "운영진만 마감할 수 있습니다": "只有管理团队可以截止", "경기 이름과 날짜·시간을 입력하세요": "请输入比赛名称和日期时间", "운영진만 삭제할 수 있습니다": "只有管理团队可以删除", "운영진만 답변할 수 있습니다": "只有管理团队可以回复"};
 const WDZ = { 일:'日', 월:'一', 화:'二', 수:'三', 목:'四', 금:'五', 토:'六' };
 const LANG = (() => {
   try { const s = localStorage.getItem('wxfc_lang'); if(s) return s } catch(e){}
@@ -253,25 +257,39 @@ function loginView(mode = 'login'){
   };
 }
 
+// ───── 공통: 회비 상태 표시 ─────
+const dueTag = st => st == '연납' ? '<span class="tag t-done">🏅 연회비 완납</span>' : st == '납부' ? '<span class="tag t-done">납부 완료 ✅</span>'
+  : st == '면제' || st == '면제대상' ? '<span class="tag t-ok">면제</span>' : st == '일시중단' ? '<span class="tag t-wait">⏸ 일시중단</span>' : '<span class="tag t-no">미납</span>';
+function myDuesHtml(md, extra = ''){
+  const z = typeof LANG != 'undefined' && LANG == 'zh', now = new Date(), cy = now.getFullYear(), cm = now.getMonth() + 1;
+  const C = { 납부:['#DFF3E3','#2E7D32','✓'], 연납:['#DFF3E3','#2E7D32','🏅'], 면제:['#EEF1F4','#5F6B7A', z ? '免' : '면제'], 면제대상:['#EEF1F4','#5F6B7A', z ? '免' : '면제'],
+    일시중단:['#FFF4CC','#8A6D00','⏸'], 미납:['#FDE2E1','#B3261E', z ? '未缴' : '미납'], 해당없음:['#F5F7FA','#C5CED8','-'] };
+  const fut = m => md.year > cy || (md.year == cy && m > cm);
+  const cells = md.months.map(x => { const c = fut(x.m) && x.status == '미납' ? ['#F5F7FA','#9AA5B1','-'] : (C[x.status] || C['미납']);
+    return `<div style="background:${c[0]};color:${c[1]};border-radius:10px;padding:7px 0;text-align:center"><div style="font-size:11px;opacity:.8">${x.m}${z ? '月' : '월'}</div><div style="font-weight:700;font-size:13px">${c[2]}</div></div>` }).join('');
+  const un = md.months.filter(x => x.status == '미납' && !fut(x.m)).length;
+  return `<div class="card"><div class="ct" data-nt><span>🙋 ${z ? `我的会费 (${md.year}年)` : `내 회비 (${md.year}년)`}</span></div>
+    <div style="display:grid;grid-template-columns:repeat(6,1fr);gap:6px" data-nt>${cells}</div>
+    <div style="display:flex;justify-content:space-between;margin-top:10px;font-size:14px"><span>올해 낸 회비 <b>${yen(md.total)}</b></span><b style="color:${un ? '#B3261E' : '#2E7D32'}">${un ? '미납 ' + un + '개월' : '미납 없음 ✅'}</b></div>${extra}</div>`;
+}
+
 // ───── 홈 ─────
 async function home(){
   const h = await api('home');
-  V(`<div class="hero"><div class="hs">${esc(ME.name)} · ${esc(ME.role)}</div>
+  const Q = [['💰','회비','#/dues'],['📊','결산','#/report'],['💬','요청사항','#/reqs'],['👥','조직·회칙','#/org'],['🔔','알림','#/me'],['📖','설명서','manual.html']];
+  V(`<div class="hero main"><div class="hs">${esc(ME.name)} · ${esc(ME.role)}</div>
       <div class="hl">현재 잔액</div><div class="ht">${yen(h.income - h.spend)}</div>
-      <div class="hr"><span>누적 수입 ${yen(h.income)}</span><span>누적 지출 ${yen(h.spend)}</span></div>
-      <a href="#/report" style="display:flex;justify-content:space-between;margin-top:12px;padding-top:10px;border-top:1px solid rgba(255,255,255,.25);font-size:13px">
-        <span>이번 달 지출 <b>${yen(h.month_spend)}</b></span><span>📊 월별·연간 결산 ›</span></a></div>
-    ${h.dues_amount > 0 ? `<a class="card" href="#/dues" style="display:flex;align-items:center;justify-content:space-between;gap:10px;padding:14px 16px">
-        <span>💰 이번 달 회비 <b>${yen(h.dues_amount)}</b></span>${h.mydue == '연납' ? '<span class="tag t-done">🏅 연회비 완납</span>' : h.mydue == '납부' ? '<span class="tag t-done">납부 완료 ✅</span>' : h.mydue == '면제' || h.mydue == '면제대상' ? '<span class="tag t-ok">면제</span>' : h.mydue == '일시중단' ? '<span class="tag t-wait">⏸ 일시중단</span>' : '<span class="tag t-no">미납 ›</span>'}</a>` : ''}
+      <div class="hr"><span>이번 달 지출 ${yen(h.month_spend)}</span><span>누적 지출 ${yen(h.spend)}</span></div>
+      ${h.dues_amount > 0 ? `<a href="#/dues" style="display:flex;justify-content:space-between;align-items:center;margin-top:12px;padding-top:10px;border-top:1px solid rgba(255,255,255,.25);font-size:13px">
+        <span>이번 달 내 회비 ${yen(h.dues_amount)}</span>${dueTag(h.mydue)}</a>` : ''}</div>
+    <div class="qgrid">${Q.map(([i, t, u]) => `<a class="q" href="${u}"><b>${i}</b>${t}</a>`).join('')}</div>
+    ${h.todo.length ? card('✅ 내가 처리할 일', h.todo.map(t => `<a class="it" href="#/${t.kind}/${t.id}"><div class="grow">${esc(t.title)}</div>${tag(t.status)}</a>`).join('')) : ''}
     ${h.notice ? card('📢 공지', `<div class="txt">${esc(h.notice)}</div>`) : ''}
     ${h.polls.length ? card('🗳 진행 중인 투표', h.polls.map(v => `<a class="it" href="#/vote/${v.id}"><div class="grow">${esc(v.title)}${v.deadline ? `<div class="sub">마감 ${fdt(v.deadline)}</div>` : ''}</div>${v.voted ? '<span class="tag t-done">투표 완료</span>' : '<span class="tag t-wait">투표하기 ›</span>'}</a>`).join('')) : ''}
     ${h.next ? card('⚽ 다음 경기', `<a class="it" href="#/match/${h.next.id}"><div class="grow"><b>${esc(h.next.title)}${h.next.opponent ? ' vs ' + esc(h.next.opponent) : ''}</b>
         <div class="sub">${fdt(h.next.starts_at)} · ${esc(h.next.venue || '구장 미정')} · ${esc(h.next.format)}</div>
         ${ATTEND ? `<div class="sub">참석 <b style="color:${h.next.yes >= h.next.need ? '#2E7D32' : '#B3261E'}">${h.next.yes}</b> / 필요 ${h.next.need}명</div>` : ''}</div>
-        ${!ATTEND ? '<span class="link">보기 ›</span>' : h.next.mine ? tag(h.next.mine) : '<span class="tag t-wait">출석 체크 ›</span>'}</a>`, '<a class="link" href="#/matches">📅 캘린더 ›</a>') : ''}
-    ${h.todo.length ? card('✅ 내가 처리할 일', h.todo.map(t => `<a class="it" href="#/${t.kind}/${t.id}"><div class="grow">${esc(t.title)}</div>${tag(t.status)}</a>`).join('')) : ''}
-    ${card('🗓 최근 확정 회의', h.meets.map(m => `<a class="it" href="#/meet/${m.id}"><div class="grow">${esc(m.title)}<div class="sub">${esc(m.mdate||'')}</div></div><span class="link">보기 ›</span></a>`).join('') || empty('아직 확정된 회의가 없습니다'))}
-    ${card('💸 최근 지출', h.recent.map(p => `<a class="it" href="#/pay/${p.id}"><div class="grow">${esc(p.title)}<div class="sub">${esc(p.category)} · ${esc(p.applicant)}</div></div><span class="amt">${yen(p.amount)}</span></a>`).join('') || empty('아직 지출 내역이 없습니다'), '<a class="link" href="#/pays">전체 ›</a>')}`);
+        ${!ATTEND ? '<span class="link">보기 ›</span>' : h.next.mine ? tag(h.next.mine) : '<span class="tag t-wait">출석 체크 ›</span>'}</a>`, '<a class="link" href="#/matches">📅 캘린더 ›</a>') : ''}`);
 }
 
 // ───── 결제 ─────
@@ -463,11 +481,12 @@ async function duesMore(id){
 function dMove(n){ const [y, m] = DYM.split('-').map(Number), d = new Date(y, m - 1 + n, 1); DYM = `${d.getFullYear()}-${String(d.getMonth() + 1).padStart(2,'0')}`; duesPage() }
 async function duesPage(){
   const r = await api('dues', { ym: DYM || '' }); DYM = r.ym;
+  const md = await api('myDues', { year: r.ym.slice(0,4) });
   const can = ['회장','총무'].includes(ME.role), [y, m] = r.ym.split('-').map(Number);
   const paid = r.list.filter(x => x.status == '납부' || x.status == '연납'), yr = r.list.filter(x => x.status == '연납'), ex = r.list.filter(x => x.status == '면제' || x.status == '면제대상'), ps = r.list.filter(x => x.status == '일시중단'), un = r.list.filter(x => x.status == '미납');
   const total = paid.filter(x => x.status == '납부').reduce((a, x) => a + Number(x.amount || 0), 0), need = r.list.length - ex.length - ps.length, pc = need ? Math.round(paid.length * 100 / need) : 0;
   const label = (typeof LANG != 'undefined' && LANG == 'zh') ? `${y}年 ${m}月` : `${y}년 ${m}월`;
-  V(`<div class="card"><div class="ct"><button class="btn b-ghost sm" onclick="dMove(-1)">‹</button><span data-nt>💰 ${label}</span><button class="btn b-ghost sm" onclick="dMove(1)">›</button></div>
+  V(`${myDuesHtml(md)}<div class="card"><div class="ct"><button class="btn b-ghost sm" onclick="dMove(-1)">‹</button><span data-nt>💰 ${label} · 전체 회원</span><button class="btn b-ghost sm" onclick="dMove(1)">›</button></div>
       <div style="display:flex;justify-content:space-between;font-size:14px"><span>납부 <b>${paid.length}</b> / ${need}명</span><span>미납 <b style="color:#B3261E">${un.length}</b>명</span><span>입금 <b>${yen(total)}</b></span></div>
       <div style="margin-top:8px;background:#EEF1F4;border-radius:99px;height:10px;overflow:hidden"><div style="height:100%;width:${pc}%;background:var(--green)"></div></div>
       ${ex.length || ps.length ? `<div class="sub" style="margin-top:8px">면제 ${ex.length}명 · 일시중단 ${ps.length}명 (인원에서 제외)</div>` : ''}
@@ -707,8 +726,10 @@ async function org(){
 // ───── 내정보 · 알림 · 관리 ─────
 async function mePage(){
   const r = await api('mePage'), boss = ME.role == '회장', can = ['회장','총무'].includes(ME.role);
+  const md = await api('myDues').catch(() => null);
   const others = r.users.filter(u => u.approved && u.id != ME.id);
   V(`<div class="hero"><div class="ht" style="font-size:24px">${esc(ME.name)}</div><div class="hs">${esc(ME.role)}${ME.position ? ' · ' + esc(ME.position) : ''}</div></div>
+    ${md ? myDuesHtml(md, '<a class="link" href="#/dues" style="display:block;margin-top:8px">회비 납부 현황 전체 보기 ›</a>') : ''}
     ${card('🔔 알림', '<div id="nl"></div>', r.notis.length ? `<span class="sub" style="margin:0">${r.notis.length}개</span>` : '')}
     ${can ? card('📢 홈 공지', `<textarea id="nt" placeholder="예) 이번 주 토요일 오전 9시 ○○구장">${esc(r.notice)}</textarea><button class="btn" id="ns">공지 저장</button>`) : ''}
     ${boss ? card('🛠 회원 관리', r.users.map(u => `<div class="it"><div class="grow">${esc(u.name)}<div class="sub">${u.approved ? esc(u.role) + (u.position ? ' · ' + esc(u.position) : '') : '가입 승인 대기'}</div></div>
@@ -782,8 +803,8 @@ const ROUTES = [
   [/^#\/vote\/(\d+)$/, votePage, 'meet'],
   [/^#\/matches$/, matchesPage, 'match'], [/^#\/match\/new$/, () => matchForm(), 'match'],
   [/^#\/match\/edit\/(\d+)$/, matchForm, 'match'], [/^#\/match\/(\d+)$/, matchDetail, 'match'],
-  [/^#\/reqs$/, reqsPage, 'req'], [/^#\/req\/(\d+)$/, reqsPage, 'req'],
-  [/^#\/org$/, org, 'org'], [/^#\/me$/, mePage, 'me']
+  [/^#\/reqs$/, reqsPage, 'home'], [/^#\/req\/(\d+)$/, reqsPage, 'home'],
+  [/^#\/org$/, org, 'home'], [/^#\/me$/, mePage, 'me']
 ];
 async function route(){
   if(!TOKEN) return loginView();

diff --git a/manual.html b/manual.html
@@ -102,9 +102,16 @@ code{background:#EEF3F8;padding:1px 6px;border-radius:6px;font-size:15px}
     <tr><th>📅 일정</th><td>경기 일정 캘린더</td></tr>
     <tr><th>💳 결제</th><td>돈을 쓴 내역 전체</td></tr>
     <tr><th>🗓 회의</th><td>회의 안건·회의록</td></tr>
-    <tr><th>💬 요청</th><td>회원 건의·요청사항</td></tr>
-    <tr><th>👥 조직</th><td>운영진 명단, 회칙 파일</td></tr>
-    <tr><th>🔔 내정보</th><td>알림, 비밀번호 변경, (회장) 회원 관리</td></tr>
+    <tr><th>👤 내정보</th><td>내 회비, 알림, 비밀번호 변경, (회장) 회원 관리·백업</td></tr>
+  </table>
+  <h3>홈 화면 바로가기</h3>
+  <table>
+    <tr><th>💰 회비</th><td>내 회비와 전체 회원 납부 현황</td></tr>
+    <tr><th>📊 결산</th><td>월별·연간 수입·지출</td></tr>
+    <tr><th>💬 요청사항</th><td>회원 건의·요청</td></tr>
+    <tr><th>👥 조직·회칙</th><td>운영진 명단, 회칙 파일</td></tr>
+    <tr><th>🔔 알림</th><td>나에게 온 알림</td></tr>
+    <tr><th>📖 설명서</th><td>이 사용 설명서</td></tr>
   </table>
   <div class="tip">🔔 빨간 숫자는 새 알림 개수입니다. <b>내정보</b>를 누르면 알림을 볼 수 있습니다.</div>
 </section>
@@ -194,7 +201,8 @@ code{background:#EEF3F8;padding:1px 6px;border-radius:6px;font-size:15px}
 <section id="s3c">
   <h2>3-2. 회비 납부 현황</h2>
   <span class="who">보기: 모든 회원</span> <span class="who g">체크: 회장·총무</span>
-  <p>회원별로 이번 달 회비를 냈는지 한눈에 봅니다. 홈 화면 맨 위에 <b>내 회비 상태</b>(납부 완료 / 미납)도 보입니다.</p>
+  <p>회원별로 이번 달 회비를 냈는지 한눈에 봅니다. 홈 화면 잔액 아래에 <b>이번 달 내 회비 상태</b>가 보이고, <b>[👤 내정보]</b>와 회비 화면 맨 위의 <b>🙋 내 회비</b> 칸에서 <b>1~12월 내 납부 상태</b>를 볼 수 있습니다 (✓ 납부, 🏅 연납, 미납, 면제, ⏸ 일시중단, - 가입 전).</p>
+  <figure><img src="manual/29-me.jpg" alt="내 회비" loading="lazy"><figcaption>내정보 화면의 '내 회비'</figcaption></figure>
   <ol>
     <li><b>[결제]</b> → <b>[💰 회비 납부 현황]</b> (또는 홈의 '이번 달 회비' 칸)</li>
     <li><b>‹ ›</b>로 달을 고릅니다.</li>
@@ -266,7 +274,7 @@ code{background:#EEF3F8;padding:1px 6px;border-radius:6px;font-size:15px}
   <span class="who">모든 회원</span>
   <p>일반 회원이 운영진에게 건의하거나 요청할 때 씁니다. <b>일반 회원이 글을 쓸 수 있는 유일한 곳</b>입니다.</p>
   <ol>
-    <li>아래 메뉴 <b>[💬 요청]</b> → <b>[+ 요청하기]</b></li>
+    <li>홈 화면 바로가기 <b>[💬 요청사항]</b> → <b>[+ 요청하기]</b></li>
     <li>제목과 내용을 적고 <b>[보내기]</b> → 운영진 모두에게 알림이 갑니다.</li>
     <li>운영진이 답변하면 나에게 알림이 옵니다.</li>
   </ol>
@@ -279,7 +287,7 @@ code{background:#EEF3F8;padding:1px 6px;border-radius:6px;font-size:15px}
 <section id="s6">
   <h2>6. 조직도와 회칙</h2>
   <span class="who">모든 회원</span>
-  <p><b>[조직·회칙]</b> 메뉴에서 운영진 명단과 회칙 파일을 볼 수 있습니다. 회칙은 <b>[열기]</b>를 누르면 됩니다.</p>
+  <p>홈 화면 바로가기 <b>[👥 조직·회칙]</b>에서 운영진 명단과 회칙 파일을 볼 수 있습니다. 회칙은 <b>[열기]</b>를 누르면 됩니다.</p>
   <figure><img src="manual/14-org.jpg" alt="조직도와 회칙" loading="lazy"><figcaption>조직도와 회칙</figcaption></figure>
   <h3>회칙 올리기·바꾸기 <span class="who">회장·총무</span></h3>
   <p>같은 화면의 <b>[회칙 파일 업로드]</b>(또는 <b>[새 회칙으로 교체]</b>) → 휴대폰에 저장된 PDF·워드 파일 선택. 모든 회원에게 알림이 갑니다.</p>
